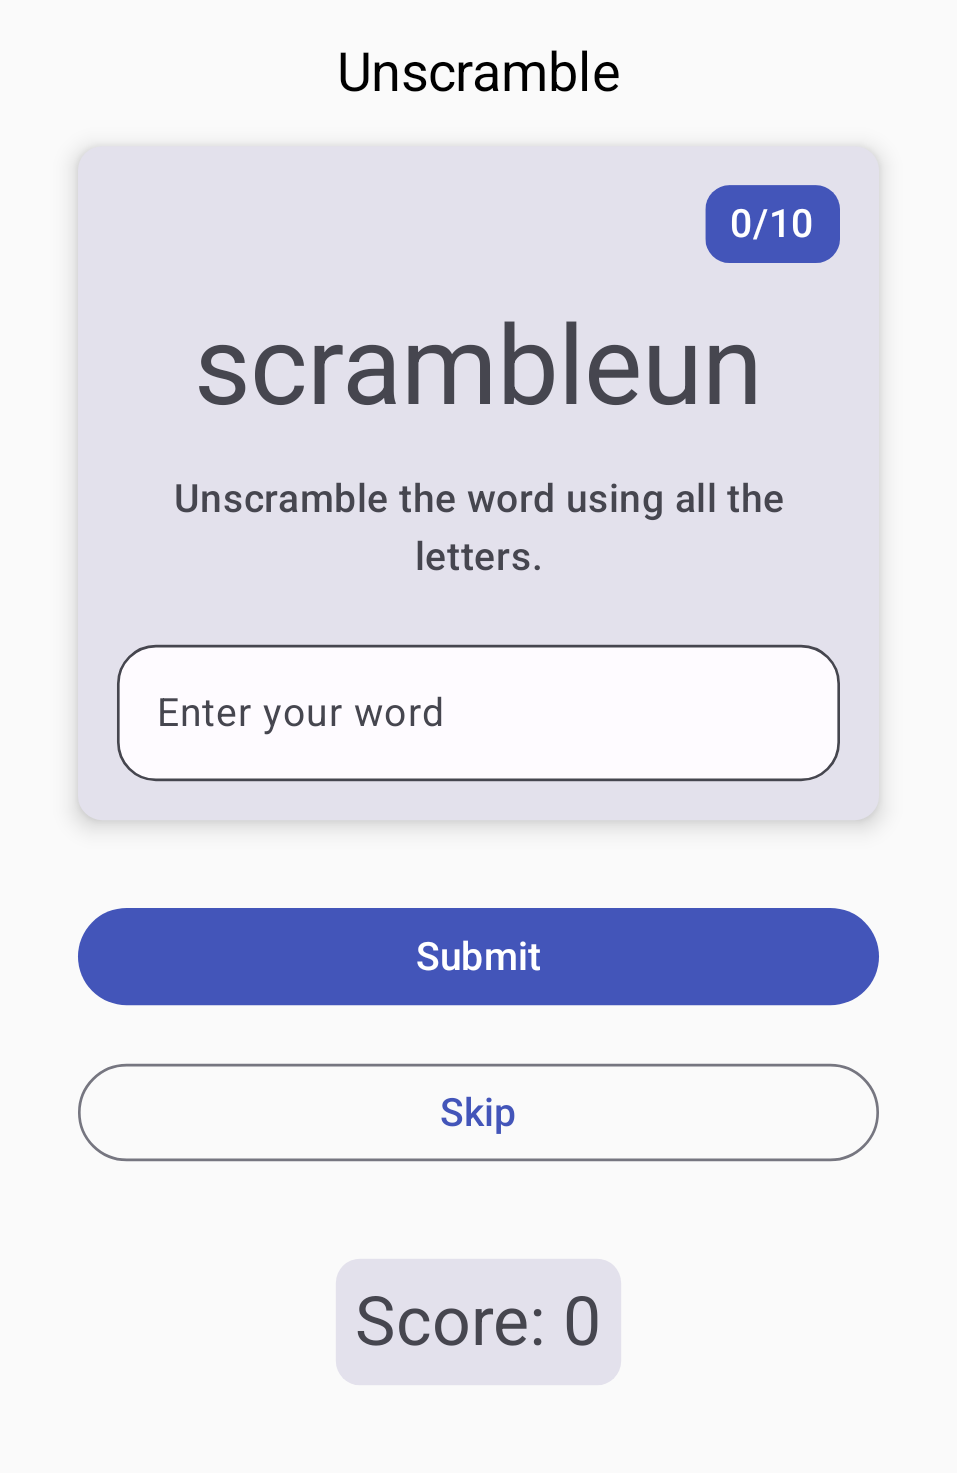
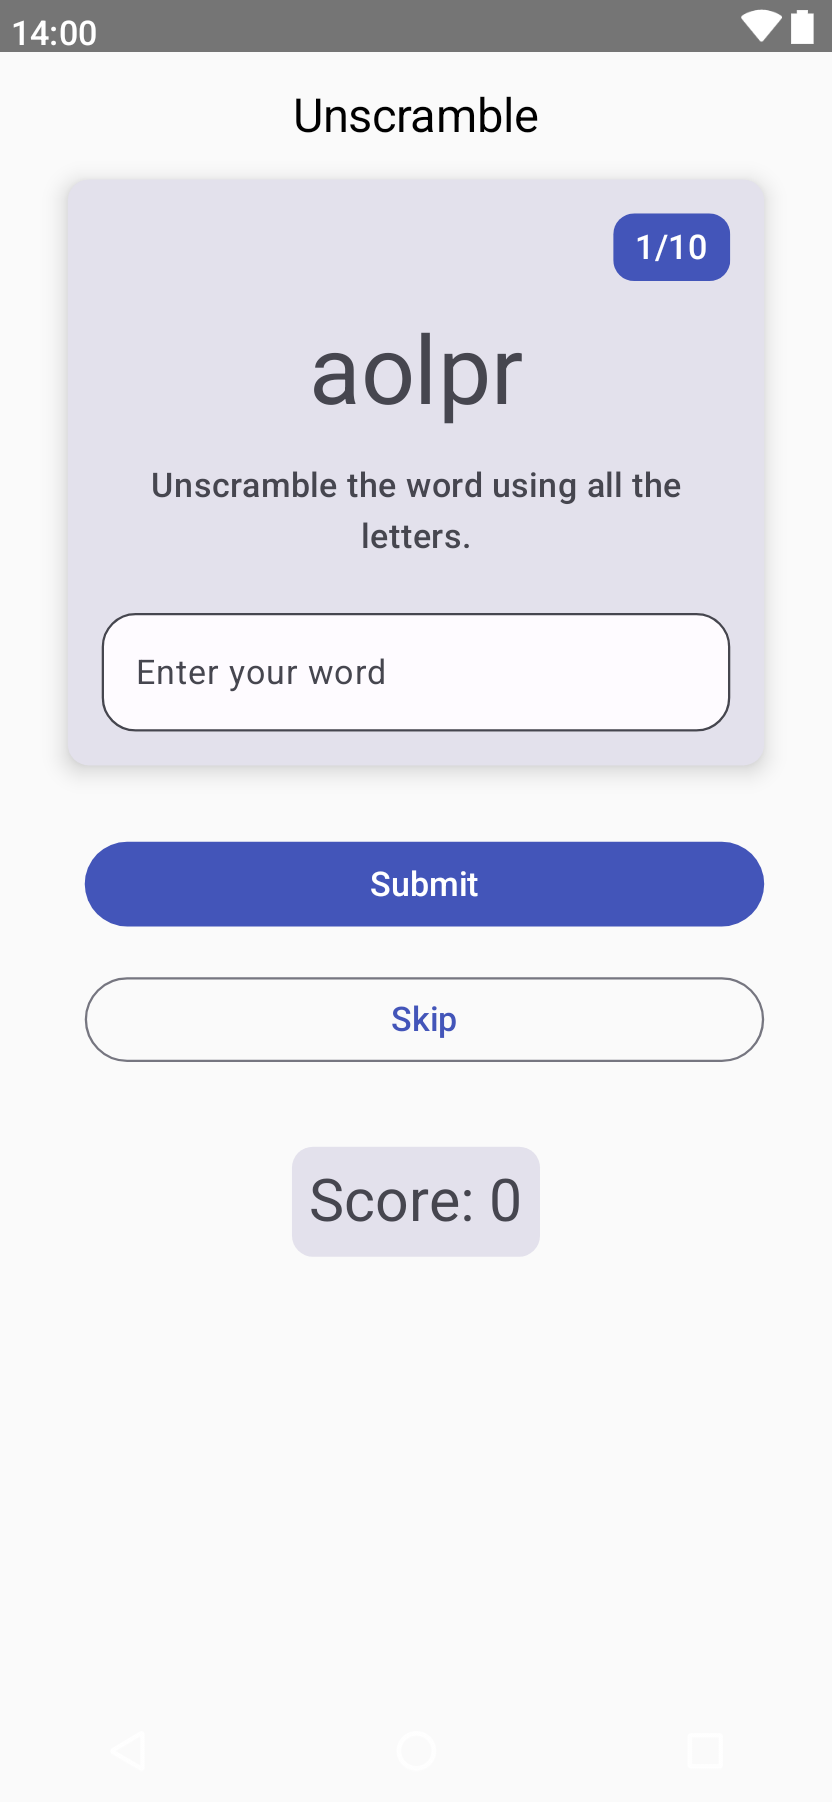
Added screenshot

diff --git a/app/src/main/java/dizzcode/com/unscramble/ui/GameScreen.kt b/app/src/main/java/dizzcode/com/unscramble/ui/GameScreen.kt
@@ -240,7 +240,10 @@ private fun FinalScoreDialog(
     )
 }
 
-@Preview(showBackground = true)
+@Preview(
+    showBackground = true,
+    showSystemUi = true
+)
 @Composable
 fun GameScreenPreview() {
     UnscrambleTheme {
